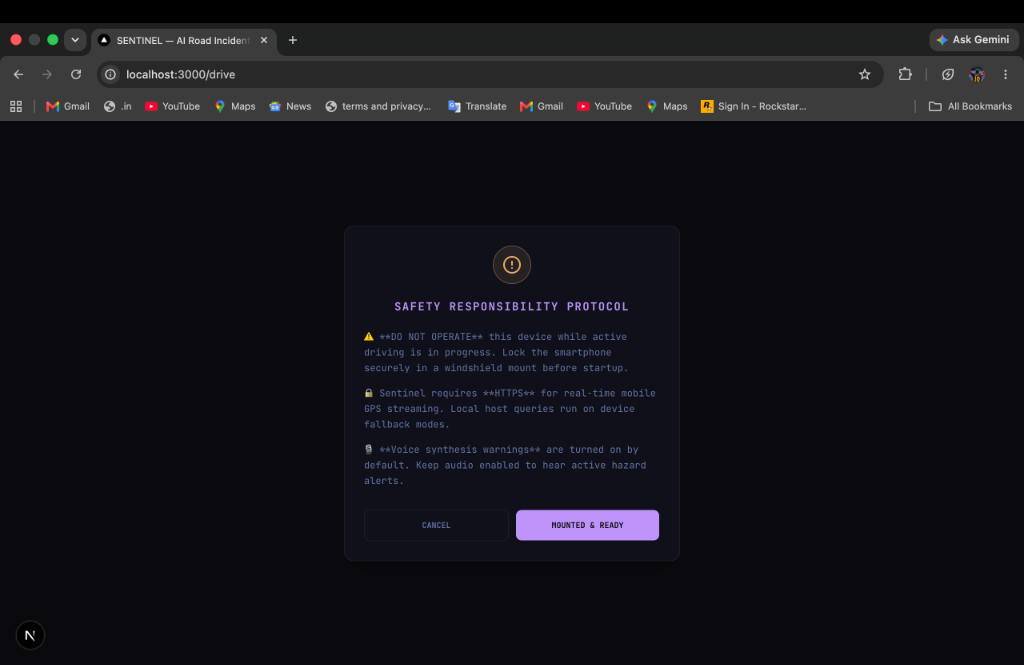
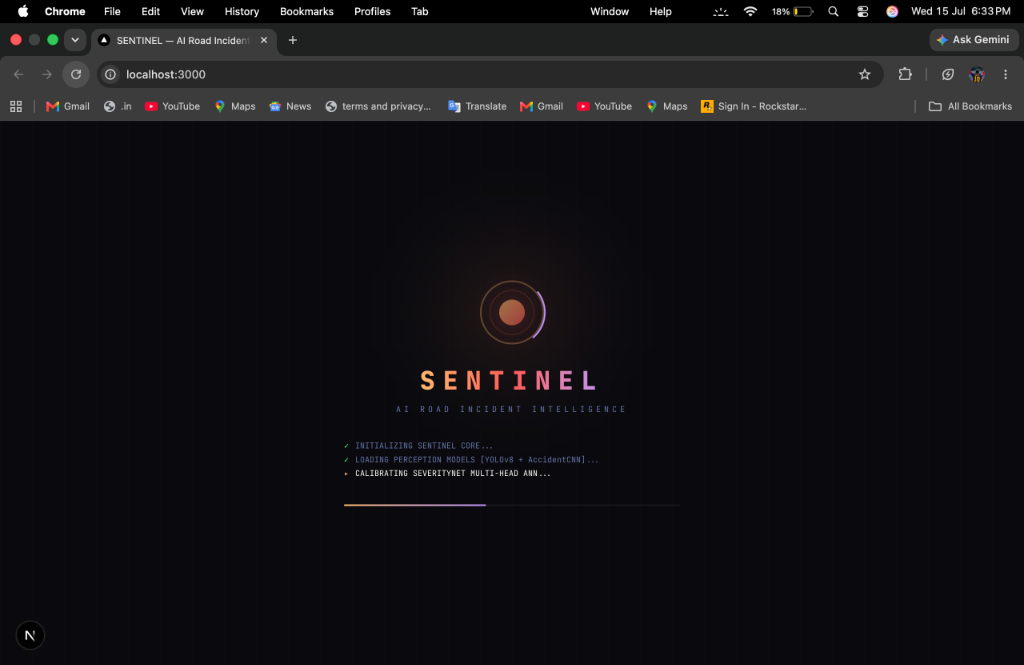
feat: configure all 5 sentinel screenshots in the requested order

diff --git a/src/components/Work.tsx b/src/components/Work.tsx
@@ -90,7 +90,10 @@ const projectsList: Project[] = [
     tools: "React, Node.js, Express, YOLOv8, AccidentCNN, RAG, WebSockets",
     images: [
       "/images/sentinel_showcase_1.png",
-      "/images/sentinel_showcase_2.png"
+      "/images/sentinel_showcase_2.png",
+      "/images/sentinel_showcase_3.png",
+      "/images/sentinel_showcase_4.png",
+      "/images/sentinel_showcase_5.png"
     ],
     link: "https://github.com/omen18/Sentinel"
   }
